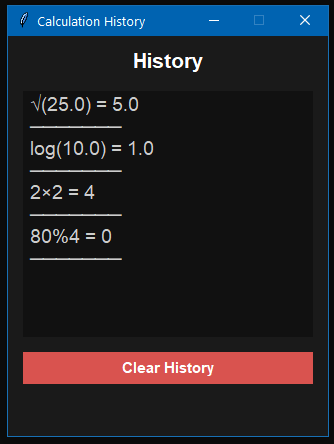
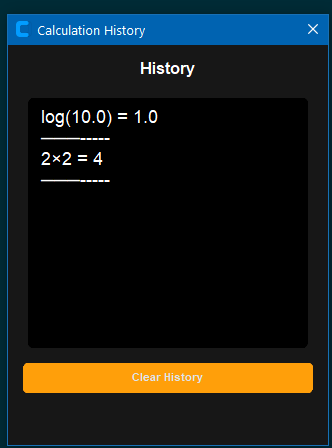
chore: update screenshots and fix minor GUI issues

Changed region(s): [[0.0, 0.0, 1.0, 1.0], [0.0904, 0.205, 0.4819, 0.5856], [0.4518, 0.2342, 0.4819, 0.2928]]

diff --git a/src/gui.py b/src/gui.py
@@ -20,7 +20,7 @@ class CalculatorApp:
         self.history_btn = ctk.CTkButton(
             self.root,
             text="🕒",
-            font=("Arial", 14),
+            font=("Arial", 16, "bold"),
             command=self.show_history_window,
             fg_color="#171717",  # Blend with background
             hover_color="#2a2a2a",
@@ -166,7 +166,7 @@ class CalculatorApp:
             hs_text.insert("1.0", "\n  No history found.")
         else:
             for item in records:
-                line = f" {item['expression']} = {item['result']}\n --------\n"
+                line = f" {item['expression']} = {item['result']}\n ───-----\n"
                 hs_text.insert("end", line)
         hs_text.configure(state="disabled")
 